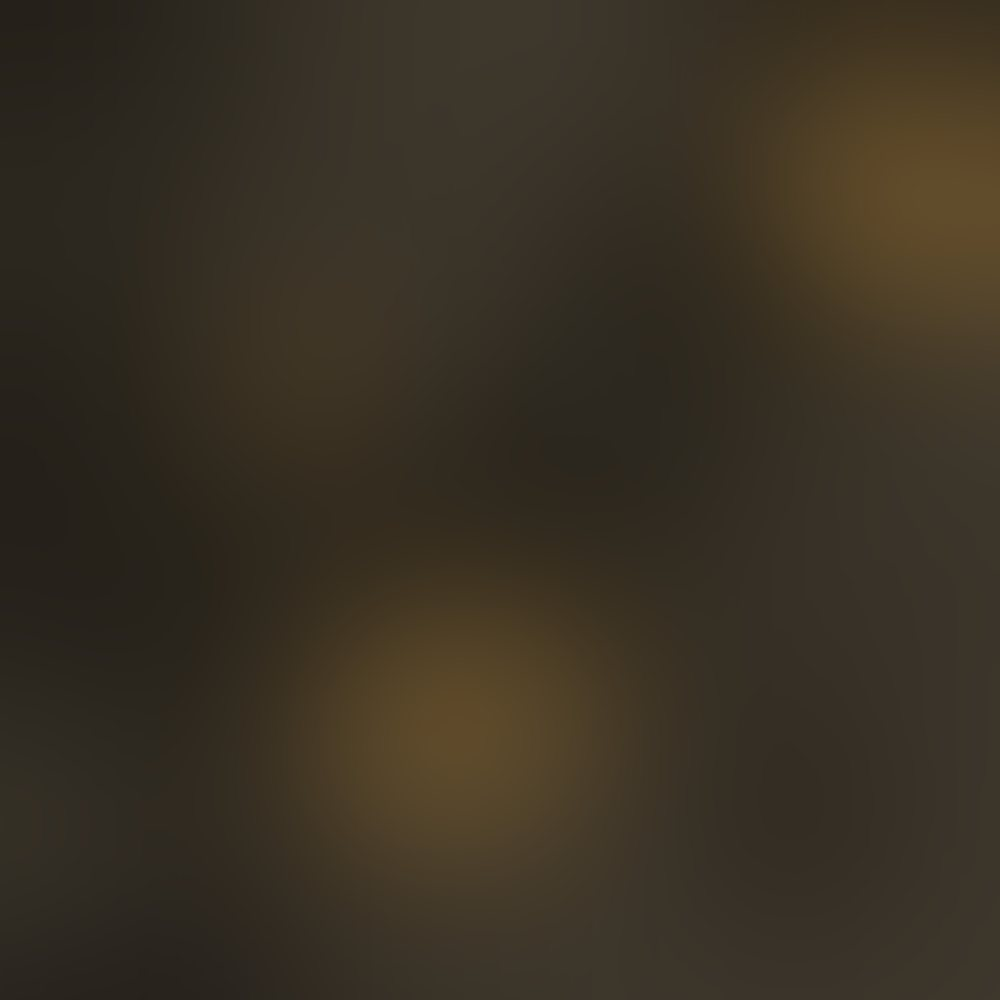
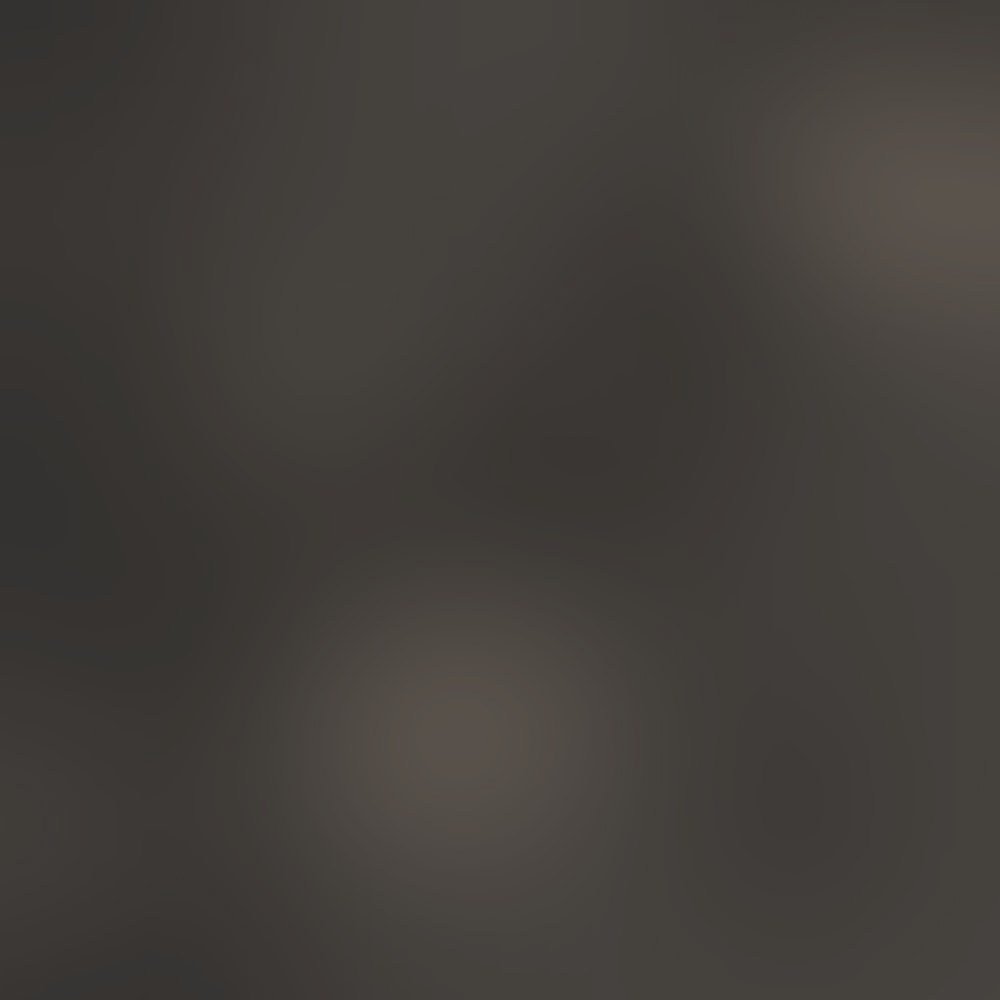
Landingpage: Greige-Farbwelt, weniger Sterne
Claude-Session: https://claude.ai/code/session_017m2jFnV4h5WkBKDBb2ZCVH

Changed region(s): [[0.248, 0.496, 0.682, 0.93], [0.682, 0.0, 1.0, 0.403], [0.217, 0.31, 0.403, 0.465]]

diff --git a/glow-grow/index.html b/glow-grow/index.html
@@ -10,7 +10,7 @@
 <link href="https://fonts.googleapis.com/css2?family=Outfit:wght@300;400;500&family=Mulish:wght@300;400;500;600&family=Cormorant+Garamond:wght@400;500&family=Mrs+Saint+Delafield&display=swap" rel="stylesheet">
 <style>
 :root{
-  --sand:#f4eee4; --white:#faf7f1; --ink:#1f1b17; --char:#1f1b17; --line:#1f1b17; --gold:#a98450; --gold-d:#8a6a3a; --gold-l:#d6bb86;
+  --sand:#ebeae9; --white:#f4f4f3; --ink:#2b2928; --char:#262524; --line:#2b2928; --gold:#a89c94; --gold-d:#7d716b; --gold-l:#cfc6bf;
   --head:'Outfit',Arial,Helvetica,sans-serif;
   --body:'Mulish',Arial,Helvetica,sans-serif;
   --logo:'Cormorant Garamond','Times New Roman',serif;
@@ -174,7 +174,7 @@ footer.panel{display:flex;flex-direction:column;justify-content:center}
 .story h2{font-size:clamp(36px,6.2vw,76px);max-width:12em}
 .story .cols{display:grid;gap:26px;margin-left:auto;max-width:34em}
 .story .cols p{font-size:18px}
-.guide{background:#16120e;color:#fff;display:grid;grid-template-rows:auto 1fr}
+.guide{background:#1f1e1d;color:#fff;display:grid;grid-template-rows:auto 1fr}
 .guide .top{padding:110px var(--pad) 50px}
 .guide h2{font-size:clamp(38px,7vw,88px);max-width:11em;font-weight:300;margin-bottom:48px}
 .guide .pic{background:url(img/pipette.jpg) center/cover;min-height:46svh}
@@ -217,17 +217,17 @@ footer.panel{display:flex;flex-direction:column;justify-content:center}
 
 
 /* ===== Gold & Beige ===== */
-::selection{background:var(--gold-l);color:#1f1b17}
+::selection{background:var(--gold-l);color:#262524}
 .logo small{color:var(--gold-d)}
 .arr{color:var(--gold-d)}
 .dark .arr,.dark .btn .arr,.menu .arr{color:var(--gold-l)}
 .btn:hover{background:var(--gold);border-color:var(--gold);color:#fff}
-.dark .btn:hover,.btn.light:hover{background:var(--gold-l);border-color:var(--gold-l);color:#1f1b17}
+.dark .btn:hover,.btn.light:hover{background:var(--gold-l);border-color:var(--gold-l);color:#262524}
 .vlabel{border-left-color:var(--gold);color:var(--gold-d)}
 .step{border-top-color:var(--gold)}
 .prod{border-top-color:var(--gold)}
 .prod em,.step span,.prod span{color:var(--gold-d)}
-.card,.stat{border-color:rgba(214,187,134,.75)}
+.card,.stat{border-color:rgba(207,198,191,.75)}
 .stat b{color:var(--gold-l)}
 .team .sub,.quote cite{color:var(--gold-l)}
 .dark .link,.dark a{color:inherit}
@@ -241,7 +241,7 @@ footer.panel{display:flex;flex-direction:column;justify-content:center}
 .sign{color:var(--gold-d)}
 .price{color:var(--gold-d)}
 .hero .txt{background:var(--sand)}
-.coll .m,.coll .s{box-shadow:0 18px 40px -18px rgba(60,40,10,.35)}
+.coll .m,.coll .s{box-shadow:0 18px 40px -18px rgba(38,37,36,.35)}
 
 
 /* ===== Rechtliches ===== */
@@ -276,7 +276,7 @@ footer.panel{display:flex;flex-direction:column;justify-content:center}
 a.step,a.prod{position:relative;padding-right:42px;transition:background .3s}
 a.step .arr,a.prod .arr{position:absolute;right:4px;top:34px;width:20px;height:20px}
 a.prod .arr{top:30px}
-a.step:hover,a.prod:hover{background:rgba(169,132,80,.1)}
+a.step:hover,a.prod:hover{background:rgba(168,156,148,.1)}
 .rform{margin:34px 0 0;max-width:560px}
 .row2{display:grid;grid-template-columns:1fr 1fr;gap:0 18px}
 .nform input.bad{border-bottom-color:#a63d2a;background:rgba(166,61,42,.06)}
@@ -284,25 +284,25 @@ a.step:hover,a.prod:hover{background:rgba(169,132,80,.1)}
 .rform .btn{margin-top:14px}
 .rform small{display:block;margin-top:18px;font-size:13px;opacity:.75;line-height:1.5}
 .rform small a{text-decoration:underline;text-decoration-color:var(--gold)}
-.call{background:#16120e;color:#fff;display:grid;grid-template-columns:1fr}
+.call{background:#1f1e1d;color:#fff;display:grid;grid-template-columns:1fr}
 .callL{padding:96px var(--pad) 60px;display:flex;flex-direction:column}
 .calltop{display:flex;justify-content:space-between;gap:16px;border-top:1px solid var(--gold-l);border-bottom:1px solid var(--gold-l);padding:16px 4px;font-family:var(--head);font-size:14px;letter-spacing:.05em;color:var(--gold-l)}
 .callL h2{font-size:clamp(34px,6.4vw,66px);font-weight:300;margin:70px 0 40px;max-width:11em}
 .callR{background:var(--sand);color:var(--ink);padding:64px var(--pad) 84px}
 .callR>p{font-size:19px;max-width:26em}
-.hub{background:#16120e;color:#fff;padding:110px var(--pad) 80px}
+.hub{background:#1f1e1d;color:#fff;padding:110px var(--pad) 80px}
 .hub h2{font-size:clamp(38px,7vw,88px);font-weight:300;margin-bottom:22px}
 .hub h2::before{content:"";display:block;width:58px;height:1.5px;background:var(--gold-l);margin-bottom:30px}
 .hub .sub{font-size:19px;opacity:.85;max-width:26em}
 .hubgrid{display:grid;margin-top:56px}
 .hgroup{margin-bottom:48px}
 .hgroup em{display:block;font-style:normal;font-family:var(--head);font-size:12px;letter-spacing:.16em;text-transform:uppercase;color:var(--gold-l);margin-bottom:10px}
-.hrow{display:grid;grid-template-columns:46px 1fr 22px;gap:2px 10px;align-items:start;border-top:1px solid rgba(214,187,134,.55);padding:20px 4px 22px;transition:background .3s,padding .3s}
+.hrow{display:grid;grid-template-columns:46px 1fr 22px;gap:2px 10px;align-items:start;border-top:1px solid rgba(207,198,191,.55);padding:20px 4px 22px;transition:background .3s,padding .3s}
 .hrow span{font-size:14px;color:var(--gold-l);padding-top:7px}
 .hrow b{font-family:var(--head);font-weight:400;font-size:clamp(20px,3vw,27px);line-height:1.15;letter-spacing:-.01em}
 .hrow .arr{grid-row:1;grid-column:3;margin-top:6px;color:var(--gold-l)}
 .hrow i{grid-column:2;font-style:normal;font-size:14.5px;opacity:.72;overflow-wrap:anywhere}
-.hrow:hover{background:rgba(214,187,134,.09);padding-left:14px}
+.hrow:hover{background:rgba(207,198,191,.09);padding-left:14px}
 @media(min-width:900px){
   .call{grid-template-columns:1fr 1fr}
   .callL{justify-content:center;padding-left:max(var(--pad),calc((100vw - 1180px)/2 + var(--pad)));padding-right:56px}
@@ -331,7 +331,7 @@ a.step:hover,a.prod:hover{background:rgba(169,132,80,.1)}
 .sets .lead{font-size:20px;margin-bottom:46px}
 .srows{display:grid}
 .srow{position:relative;display:grid;grid-template-columns:46px 1fr;gap:4px 8px;border-top:1.5px solid var(--gold);padding:24px 44px 26px 4px;transition:background .3s}
-.srow:hover{background:rgba(169,132,80,.1)}
+.srow:hover{background:rgba(168,156,148,.1)}
 .srow span{font-size:15px;color:var(--gold-d);padding-top:6px}
 .srow b{display:block;font-family:var(--head);font-weight:400;font-size:clamp(23px,3.2vw,30px);line-height:1.1;letter-spacing:-.01em}
 .srow em{display:block;font-style:normal;font-size:12px;letter-spacing:.14em;text-transform:uppercase;color:var(--gold-d);margin:8px 0 10px;font-family:var(--head)}
@@ -448,7 +448,7 @@ a.step:hover,a.prod:hover{background:rgba(169,132,80,.1)}
 
 <!-- KOPFHAUT-RATGEBER -->
 <section class="guide" id="ratgeber">
-  <div class="top dark" style="background:#16120e">
+  <div class="top dark" style="background:#1f1e1d">
     <h2 class="fade">Schönes Haar wächst aus einer gepflegten Kopfhaut</h2>
     <a class="btn light fade" href="#ratgeber">Kopfhaut-Ratgeber anfordern <svg class="arr"><use href="#arrow"/></svg></a>
   </div>
@@ -634,7 +634,7 @@ a.step:hover,a.prod:hover{background:rgba(169,132,80,.1)}
   <h2 class="fade">Ready to start?<br>„Dream Big“ now</h2>
   <p class="fade">Du brauchst vorher kein Gespräch und willst direkt durchstarten? Dann starte in wenigen Minuten dein eigenes Business.</p>
   <div class="ready-actions">
-    <a class="btn fade" href="https://mymonat.com/enrollments/16024648-1789969092/share?utm_source=website&amp;utm_medium=link&amp;utm_campaign=pre_package_cart_mp" target="_blank" rel="noopener" style="background:rgba(240,237,232,.6)">Dream Big kaufen <svg class="arr"><use href="#arrow"/></svg></a>
+    <a class="btn fade" href="https://mymonat.com/enrollments/16024648-1789969092/share?utm_source=website&amp;utm_medium=link&amp;utm_campaign=pre_package_cart_mp" target="_blank" rel="noopener" style="background:rgba(244,244,243,.6)">Dream Big kaufen <svg class="arr"><use href="#arrow"/></svg></a>
     <a class="link fade" href="https://swiss.mymonat.com" target="_blank" rel="noopener">Zum MONAT Shop <svg class="arr"><use href="#arrow"/></svg></a>
   </div>
 </section>
@@ -869,7 +869,7 @@ a.step:hover,a.prod:hover{background:rgba(169,132,80,.1)}
       cx.restore();
     }
     function add(dir){
-      if(ps.length>22)return;
+      if(ps.length>9)return;
       var big=Math.random()<.3;
       ps.push({x:Math.random()*W,y:dir>0?H*(.2+Math.random()*.8):H*Math.random()*.8,
         r:big?(7+Math.random()*5):(2.5+Math.random()*3),rays:big?(9+Math.random()*6):0,
@@ -887,7 +887,7 @@ a.step:hover,a.prod:hover{background:rgba(169,132,80,.1)}
     }
     addEventListener('scroll',function(){
       var d=scrollY-last;last=scrollY;if(!d)return;
-      acc+=Math.min(Math.abs(d),90)/34;
+      acc+=Math.min(Math.abs(d),90)/80;
       while(acc>=1){acc-=1;add(d>0?1:-1)}
     },{passive:true});
   })();
